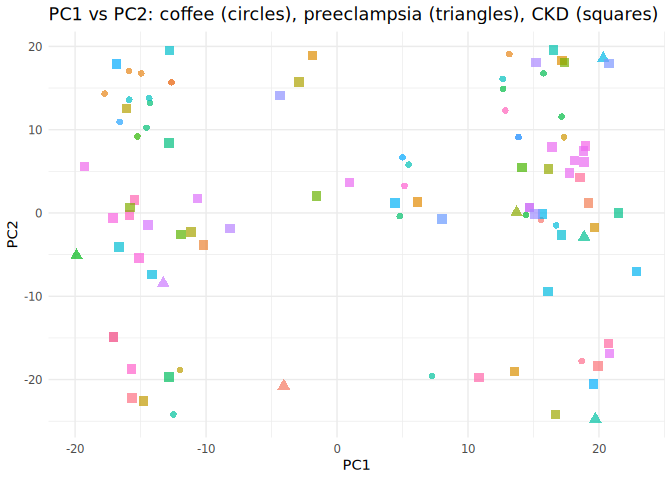
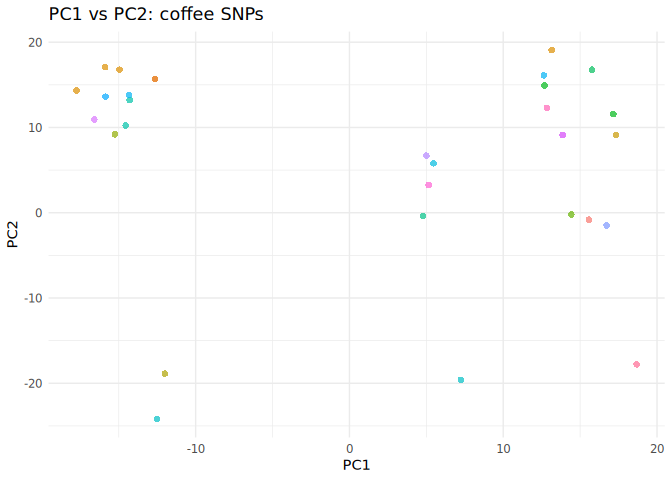
funy things

diff --git a/README.md b/README.md
@@ -33,7 +33,7 @@ library(ggplot2)
 # Use OpenRemoteParquetView to inspect the first few rows
 OpenRemoteParquetView()
 #> # Source:   table<embeddings> [?? x 6]
-#> # Database: DuckDB 1.4.0 [root@Linux 6.8.0-78-generic:R 4.5.1//tmp/Rtmps6ucDx/file8a5ff195dec19.duckdb]
+#> # Database: DuckDB 1.4.0 [root@Linux 6.8.0-78-generic:R 4.5.1//tmp/RtmpAEGH6U/file8a80d14997b6f.duckdb]
 #>    chrom pos       ref_UKB alt_UKB rsid       embedding    
 #>    <chr> <chr>     <chr>   <chr>   <chr>      <list>       
 #>  1 5     148899362 T       G       rs4705280  <dbl [3,072]>
@@ -58,7 +58,7 @@ CopyParquetToDuckDB(db_path = "local_embeddings.duckdb", overwrite = FALSE)
 )
 #> Database file 'local_embeddings.duckdb' already exists. Skipping copy.
 #>    user  system elapsed 
-#>   0.024   0.007   0.028
+#>   0.026   0.007   0.029
 file.info("local_embeddings.duckdb")$size
 #> [1] 12106084352
 ```
@@ -75,7 +75,7 @@ overwrite = FALSE)
 #> local_embeddings.houba.desc already exists.
 #> Using existing houba file and info data.
 #>    user  system elapsed 
-#>   0.581   0.033   0.570
+#>   0.571   0.043   0.572
 houba
 #> Houba mmatrix file: local_embeddings.houba 
 #> Embeddings (houba::mmatrix):
@@ -116,7 +116,7 @@ system.time(
 #> Dimensions: 616386 x 3072
 #> Running PCA with center=TRUE, scale=TRUE, ncomp=15
 #>    user  system elapsed 
-#> 358.806 112.452  54.725
+#> 352.349 115.962  54.777
 ```
 
 ## 5. Get PCA scores
@@ -135,7 +135,7 @@ plotPcaDims(pc_scores, houba$info, annotation_col = "chrom", dim1 = 1, dim2 = 2)
 
 <img src="docs/README-unnamed-chunk-8-1.png" width="100%" />
 
-## 7. Annotate variants with coffee consumption GWAS and plot PC1 vs PC2 by gene
+## 7. Annotate variants from ensembl phenotype endpoint plot in the PCA spaces
 
 ``` r
 # Helper function to fetch and extract annotation
@@ -179,16 +179,29 @@ preeclampsia_snps <- subset(plotDf, !is.na(gen_preeclampsia))|>
 ckd_snps <- subset(plotDf, !is.na(gen_ckd)) |>
         unique()
 # Plot: coffee SNPs as circles, preeclampsia SNPs as triangles, CKD SNPs as squares
-ggplot() +
-  geom_point(data = coffee_snps, aes(x = PC1, y = PC2, color = gen_coffee), shape = 16, size = 2, alpha = 0.7) +
-  geom_point(data = preeclampsia_snps, aes(x = PC1, y = PC2, color = gen_preeclampsia), shape = 17, size = 3, alpha = 0.7) +
-  geom_point(data = ckd_snps, aes(x = PC1, y = PC2, color = gen_ckd), shape = 15, size = 3, alpha = 0.7) +
-  labs(title = "PC1 vs PC2: coffee (circles), preeclampsia (triangles), CKD (squares)") +
-  theme_minimal() +
-  theme(legend.position = "none")
+plot_pc_pair <- function(df, pc_x, pc_y, color_col, shape_val, title) {
+  ggplot(df, aes(x = .data[[pc_x]], y = .data[[pc_y]], color = .data[[color_col]])) +
+    geom_point(shape = shape_val, size = 2, alpha = 0.7) +
+    labs(title = title, x = pc_x, y = pc_y) +
+    theme_minimal() +
+    theme(legend.position = "none")
+}
+plot_pc_pair(coffee_snps, "PC1", "PC2", "gen_coffee", 16, "PC1 vs PC2: coffee SNPs")
 ```
 
 <img src="docs/README-unnamed-chunk-9-1.png" width="100%" />
+
+``` r
+plot_pc_pair(coffee_snps, "PC2", "PC3", "gen_coffee", 16, "PC2 vs PC3: coffee SNPs")
+```
+
+<img src="docs/README-unnamed-chunk-9-2.png" width="100%" />
+
+``` r
+plot_pc_pair(coffee_snps, "PC3", "PC4", "gen_coffee", 16, "PC3 vs PC4: coffee SNPs")
+```
+
+<img src="docs/README-unnamed-chunk-9-3.png" width="100%" />
 
 ## Notes
 
